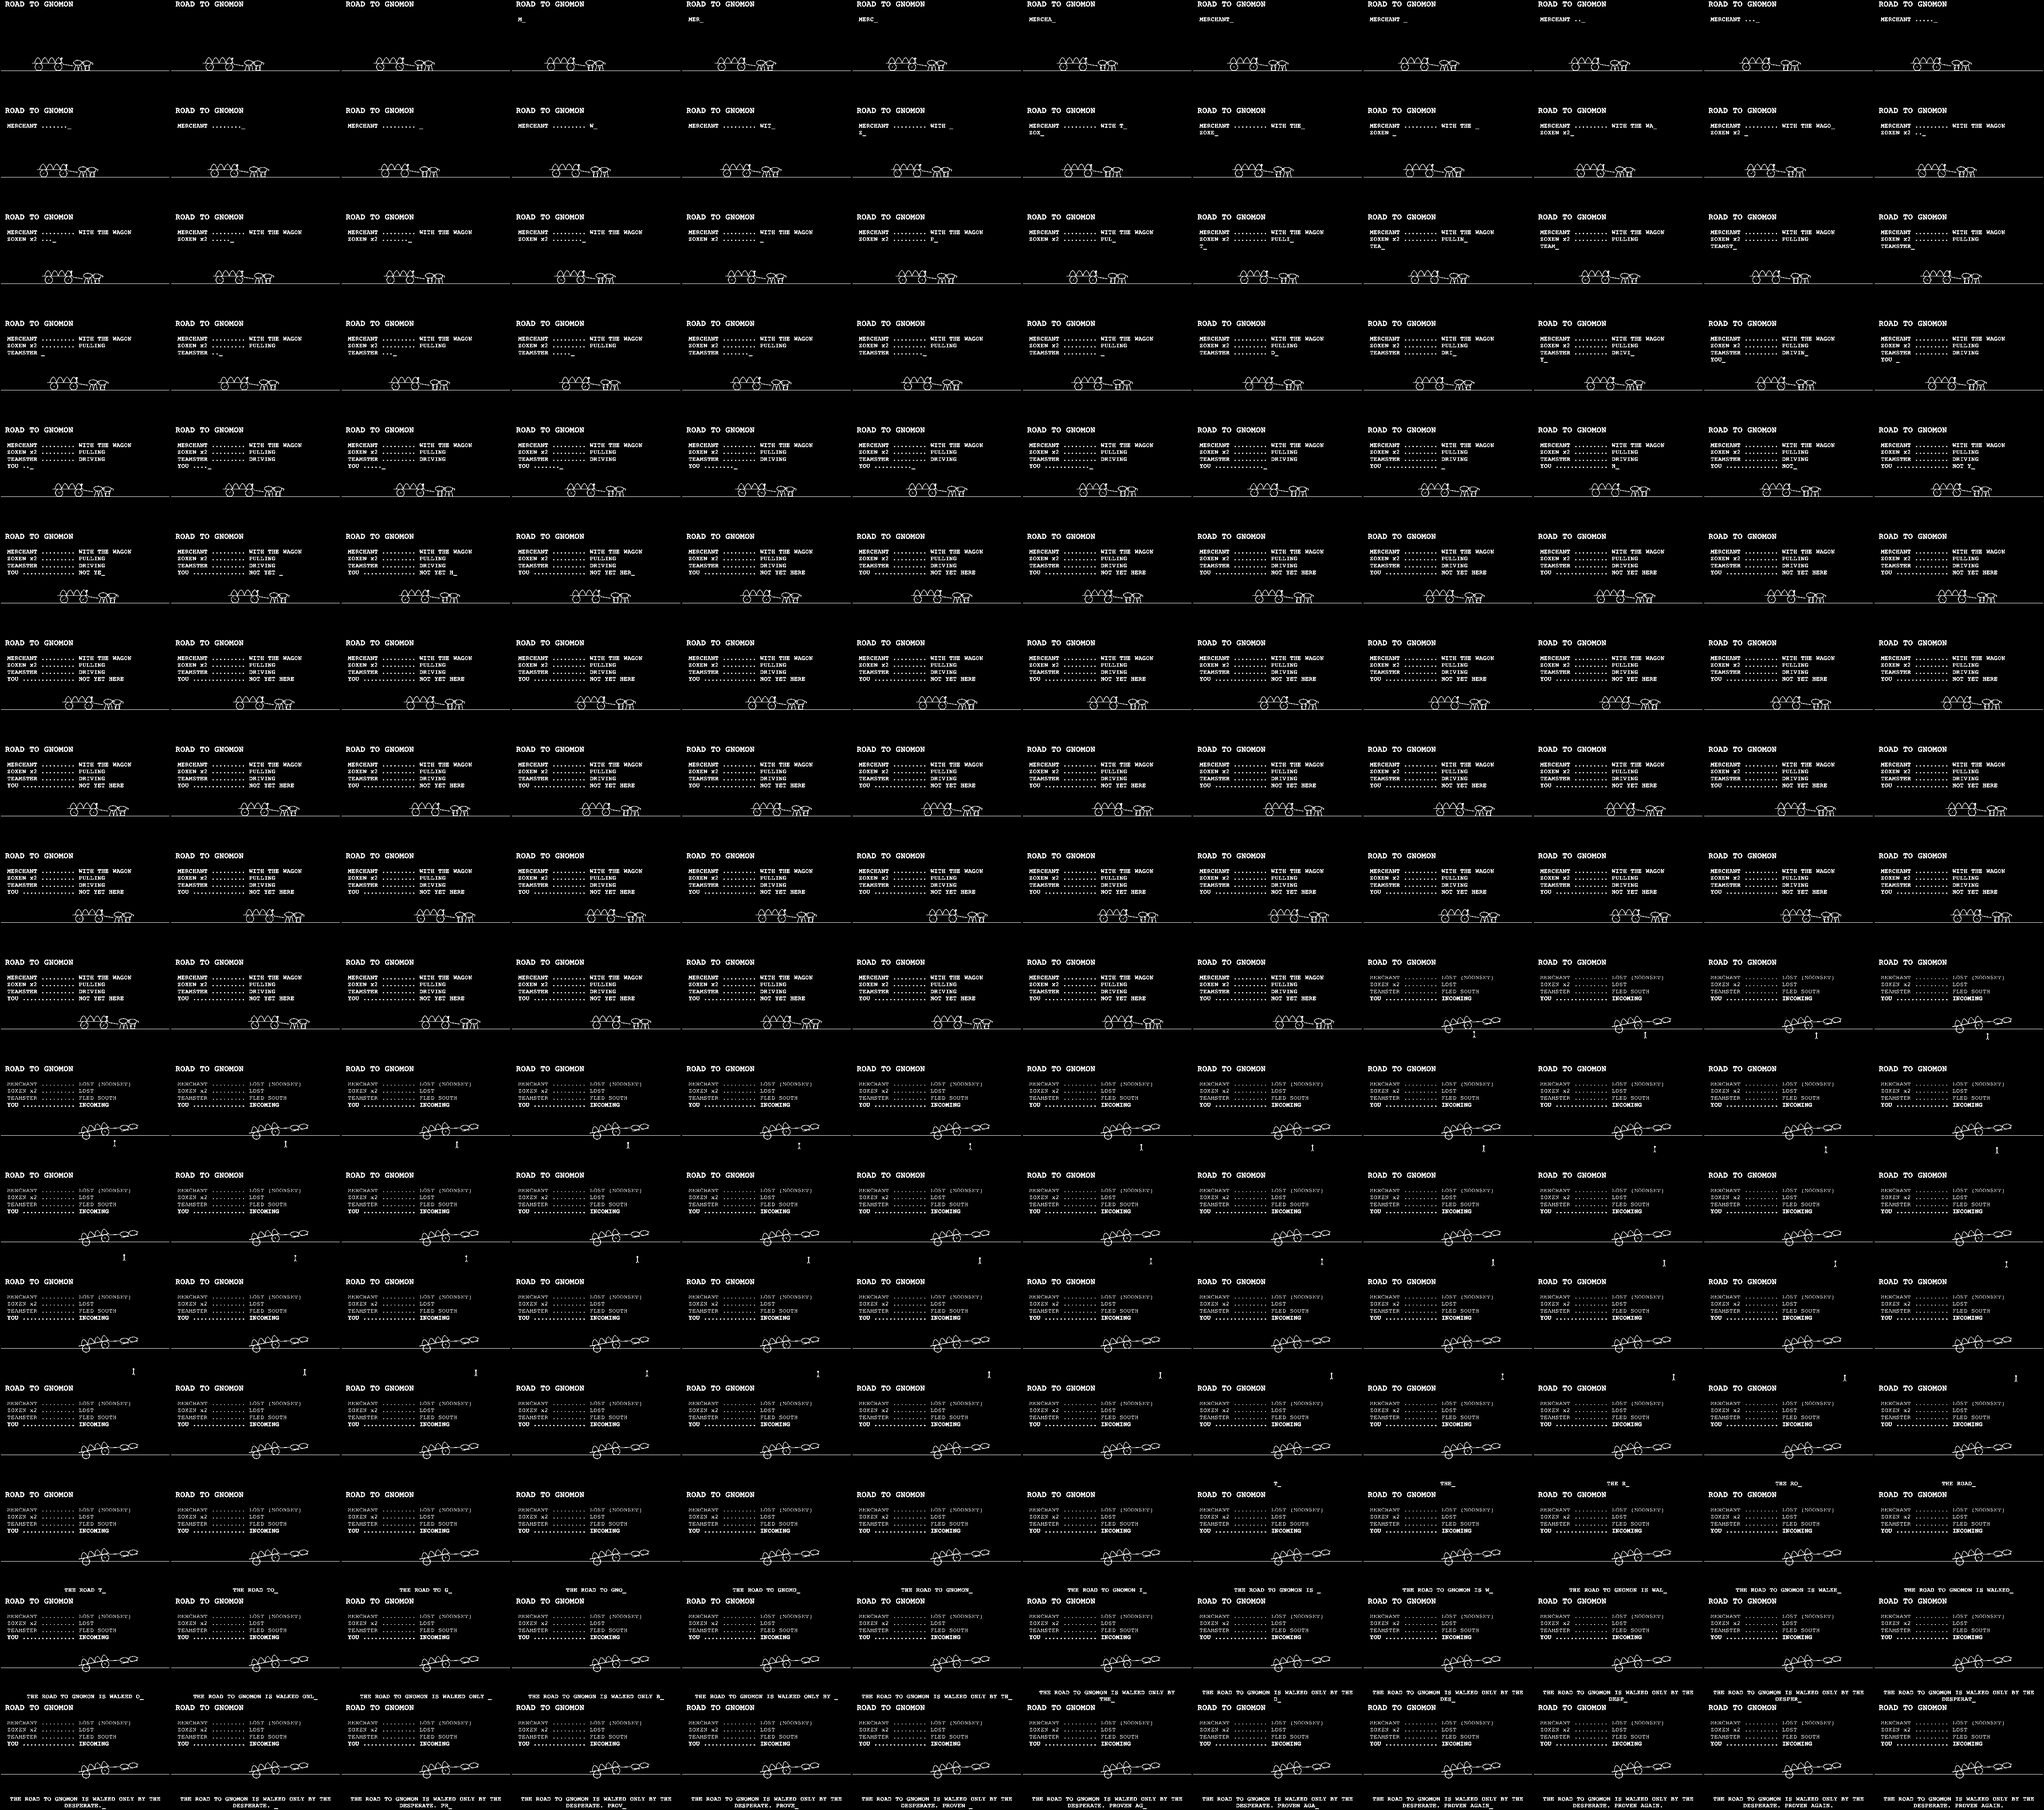
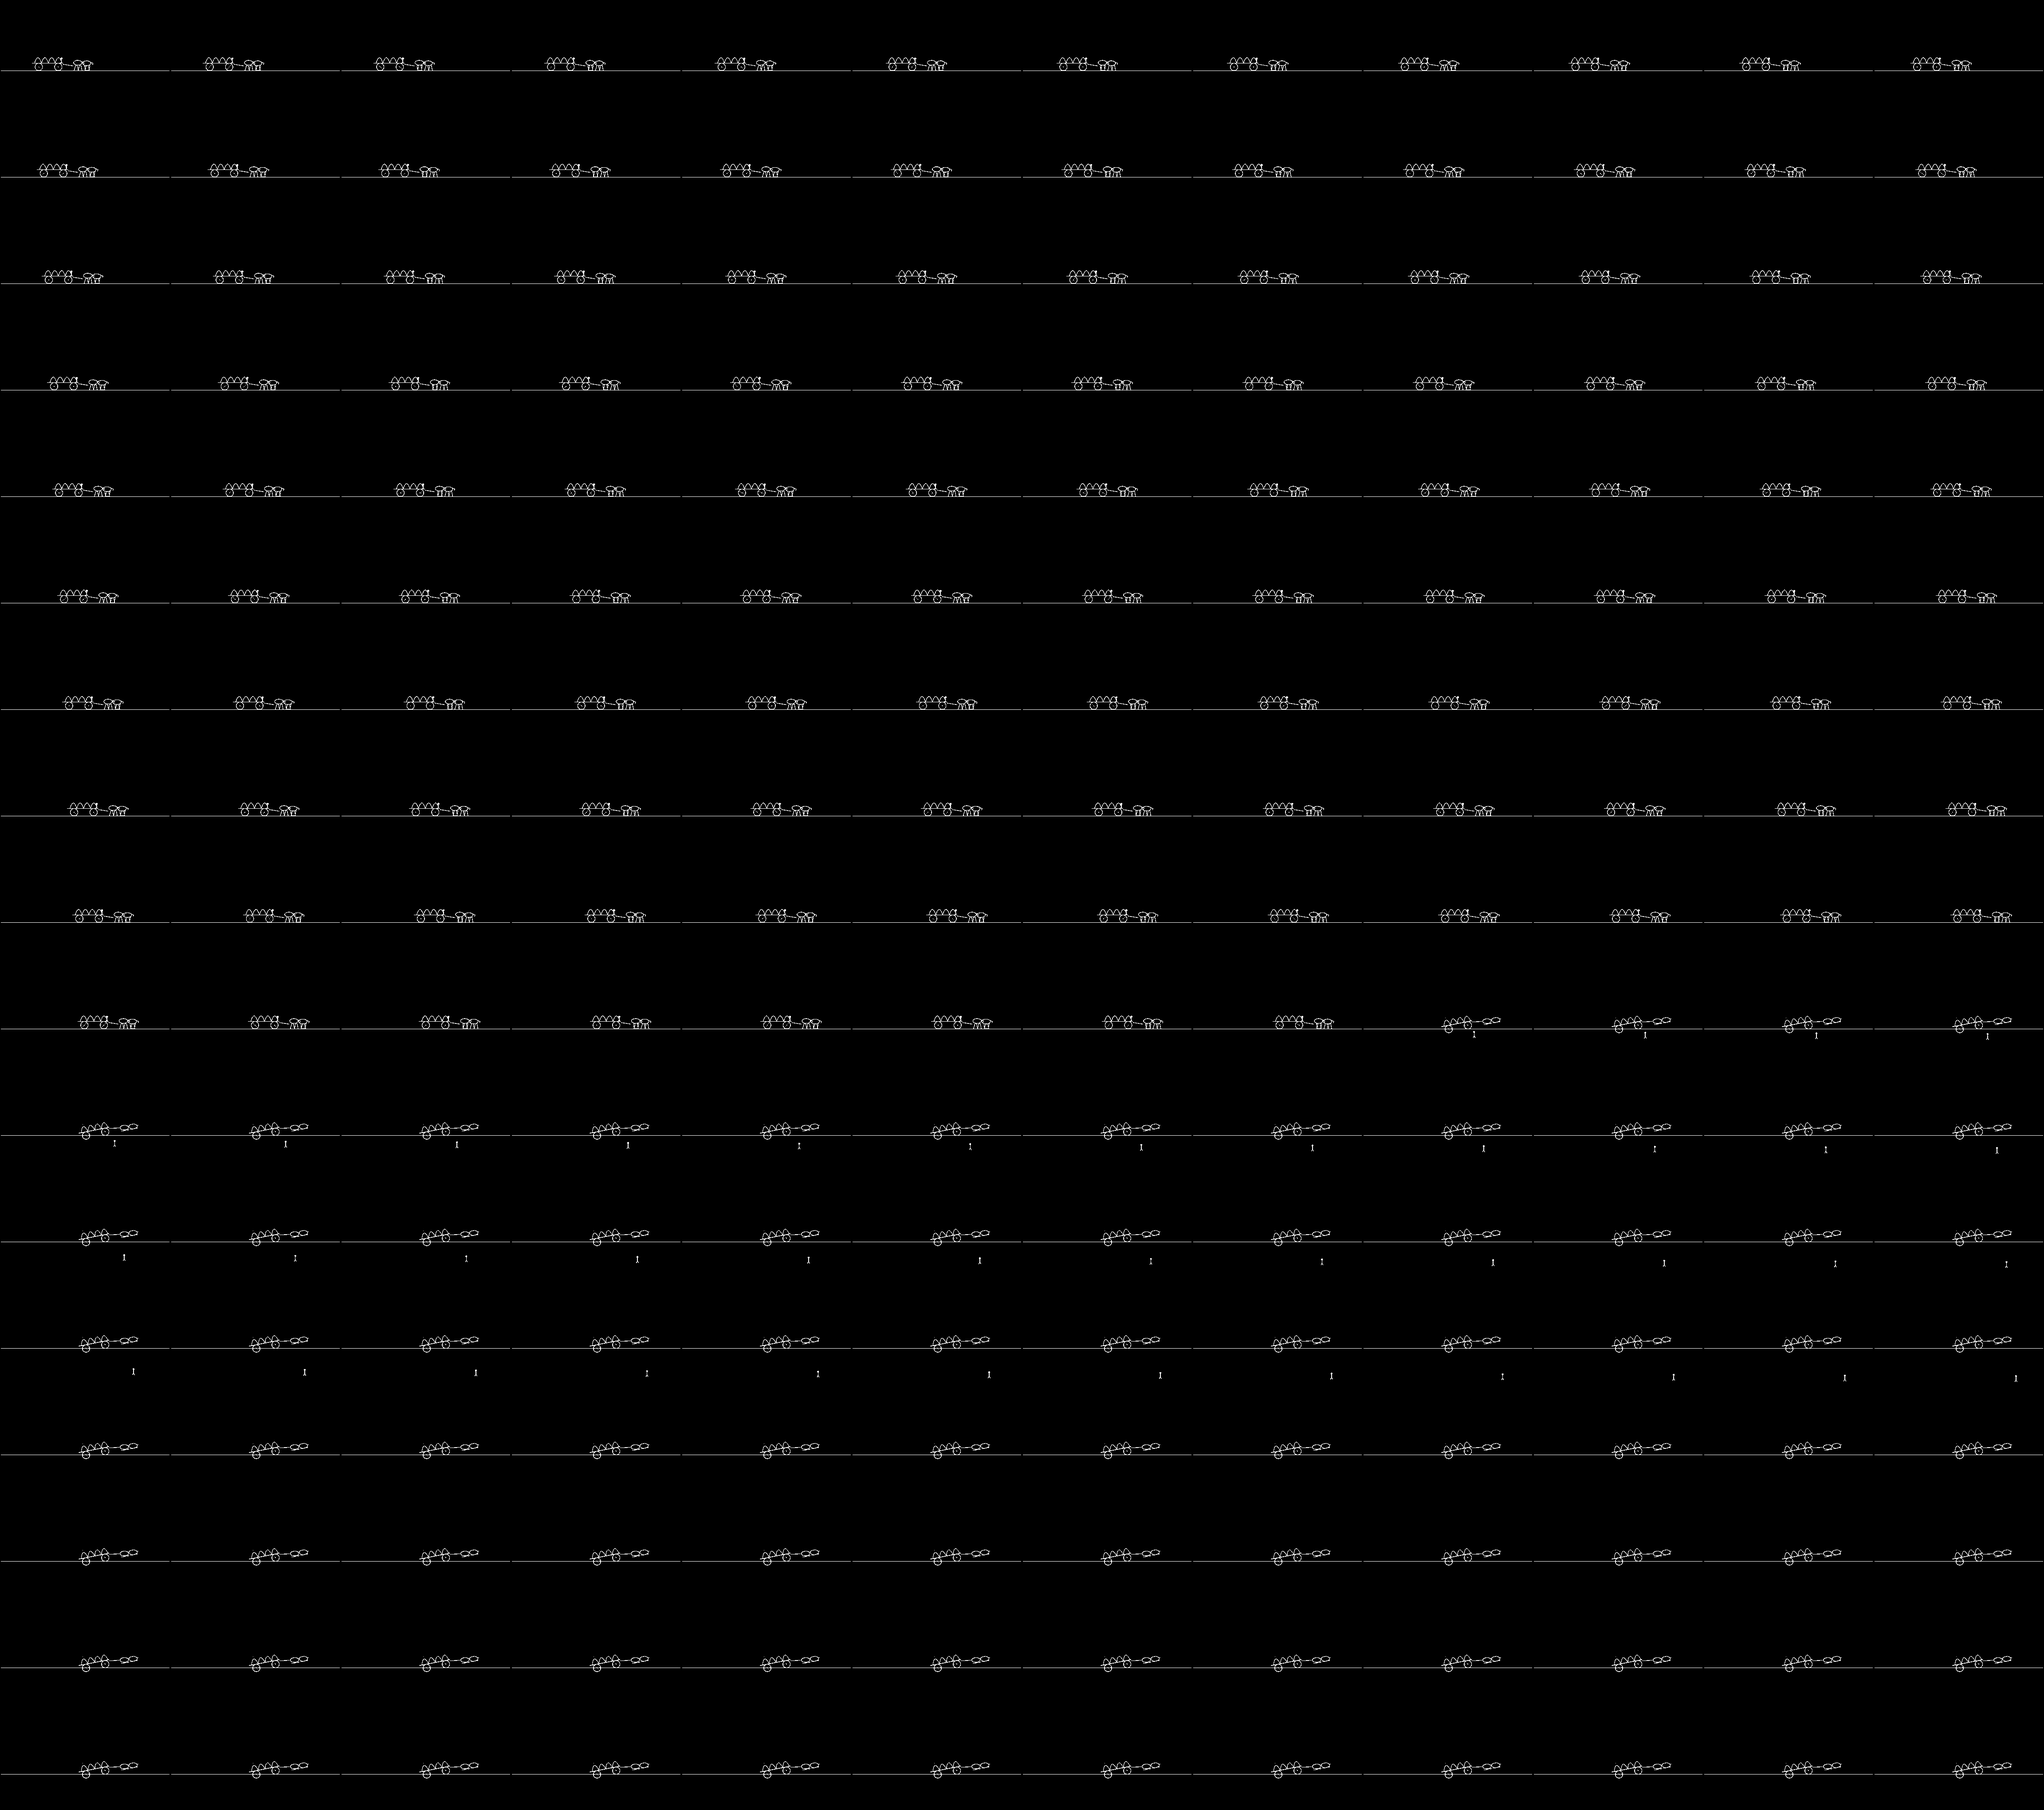
playdate: the native-text layer -- device fonts over text-free geometry (CCB)
The words leave the imagetables entirely: the exporter hides every
svg label and no-ops canvas fillText/strokeText before the card
builds, so frames carry pure geometry. The words come back on DEVICE:
content/captions.lua holds each card's caption script in 400x240
space and 12fps card frames (typewriter with cps, show/hide windows,
bold via markup, left/center/right anchors), and the overlay draws
them in the system pixel font over each frame -- pixel-true at any
size, no dithered type ever again.

The road's ledger types on, moonset rewrites all four lines, and the
two-line closer lands centered; guts and glowstone carry their
captions natively too. Editing a caption is now a one-line Lua change
-- no re-export.

diff --git a/playdate/tools/export_figures.py b/playdate/tools/export_figures.py
@@ -46,6 +46,12 @@ def export(page, key, frames):
         fh.write(HARNESS % FIGURES_JS)
     page.goto("file://" + harness)
     page.wait_for_function("window.TombFigures !== undefined")
+    page.evaluate(
+        """() => {
+          CanvasRenderingContext2D.prototype.fillText = function () {};
+          CanvasRenderingContext2D.prototype.strokeText = function () {};
+        }"""
+    )
     ok = page.evaluate(
         """(key) => {
           const F = window.TombFigures;
@@ -58,86 +64,14 @@ def export(page, key, frames):
     )
     if not ok:
         raise SystemExit(f"no card named {key}")
-    # Boost the type before capture: reel labels are sized for a monitor;
-    # at 0.6x they land at ~6 device px. 1.7x (with tightened tracking)
-    # puts them at ~11 px -- readable 1-bit -- without touching geometry.
-    # (Canvas-drawn text is untouched; those cards await small masters.)
+    # NATIVE-TEXT LAYER: the device renders all words itself (real
+    # Playdate fonts, content/captions.lua), so the export strips every
+    # label -- svg text hidden, canvas text no-opped -- leaving pure
+    # geometry for the imagetable.
     page.evaluate(
         """() => {
-          const K = 2.3;
-          const texts = [];
-          document.querySelectorAll('#stage text').forEach((t) => {
-            const y = parseFloat(t.getAttribute('y') || '0');
-            if (t.getAttribute('text-anchor') === 'end' && y < 30) {
-              t.setAttribute('display', 'none'); // topline chrome: cut
-              return;
-            }
-            const fs = parseFloat(t.getAttribute('font-size') || '10');
-            const nfs = Math.round(fs * K);
-            t.setAttribute('font-size', nfs);
-            t.setAttribute('letter-spacing', '0.5');
-            if (y > 350) { // footer band: wrapped per-frame, not shrunk
-              t.dataset.footer = '1';
-              t.dataset.fs = nfs;
-              t.dataset.oy = y;
-            }
-            texts.push({ t, y, fs: nfs });
-          });
-          // bigger type needs more leading: labels sharing a column (same
-          // x + anchor) get re-spaced so they can't overlap
-          const cols = {};
-          texts.forEach((e) => {
-            const key = (e.t.getAttribute('text-anchor') || 'start') + '|'
-              + (e.t.getAttribute('x') || '0');
-            (cols[key] = cols[key] || []).push(e);
-          });
-          for (const key in cols) {
-            const col = cols[key].sort((a, b) => a.y - b.y);
-            for (let i = 1; i < col.length; i++) {
-              const need = col[i - 1].y + col[i - 1].fs * 1.15;
-              if (col[i].y < need) {
-                col[i].y = need;
-                col[i].t.setAttribute('y', need);
-              }
-            }
-          }
-          // per-frame footer wrap: typeOn rewrites these nodes every tick,
-          // so re-split the current string into tspans before each capture
-          window.__wrapFooters = () => {
-            document.querySelectorAll('#stage text[data-footer]').forEach((t) => {
-              const s = (t.textContent || '').trimEnd();
-              if (!s) return;
-              const fs = parseFloat(t.dataset.fs);
-              const est = fs * 0.62 + 0.5; // char width, letterspaced
-              const maxChars = Math.floor(600 / est);
-              if (s.length <= maxChars) return;
-              const words = s.split(' ');
-              const lines = [];
-              let cur = '';
-              words.forEach((w) => {
-                if ((cur + ' ' + w).trim().length > maxChars) {
-                  if (cur) lines.push(cur);
-                  cur = w;
-                } else {
-                  cur = cur ? cur + ' ' + w : w;
-                }
-              });
-              if (cur) lines.push(cur);
-              const lh = fs * 1.1;
-              t.textContent = '';
-              t.setAttribute('y',
-                Math.min(parseFloat(t.dataset.oy), 394 - (lines.length - 1) * lh));
-              const x = t.getAttribute('x');
-              lines.forEach((ln, i) => {
-                const sp = document.createElementNS(
-                  'http://www.w3.org/2000/svg', 'tspan');
-                sp.setAttribute('x', x);
-                sp.setAttribute('dy', i === 0 ? 0 : lh);
-                sp.textContent = ln;
-                t.appendChild(sp);
-              });
-            });
-          };
+          document.querySelectorAll('#stage text')
+            .forEach((t) => t.setAttribute('display', 'none'));
         }"""
     )
     stage = page.locator("#stage")
@@ -146,7 +80,6 @@ def export(page, key, frames):
         page.evaluate("window.TombFigures._tickAll()")
     cells = []
     for _ in range(frames):
-        page.evaluate("window.__wrapFooters()")
         shot = Image.open(io.BytesIO(stage.screenshot())).convert("L")
         scale = min(CELL_W / shot.width, CELL_H / shot.height)
         shot = shot.resize(
